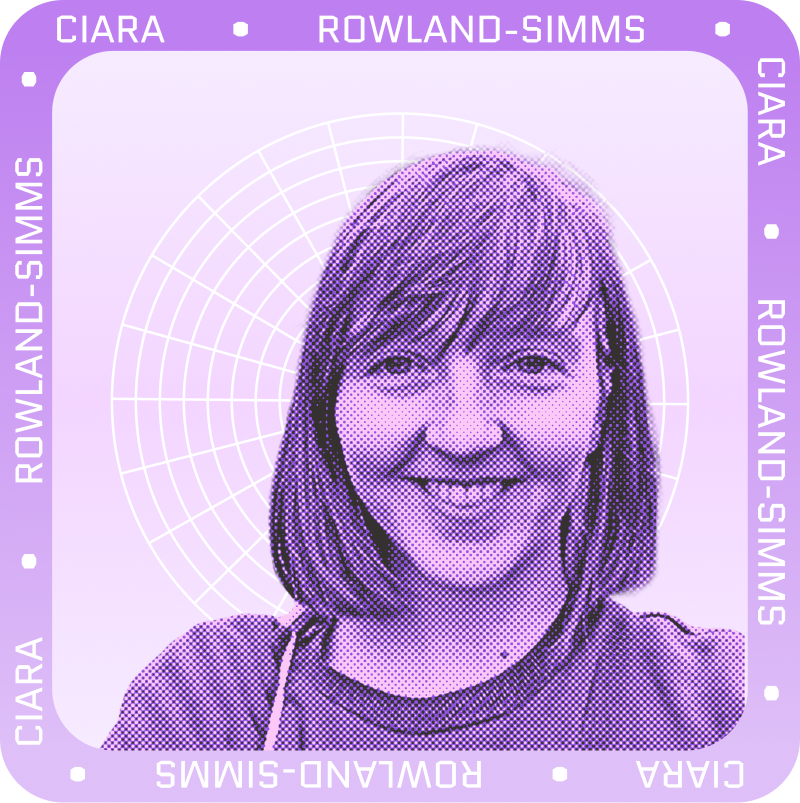
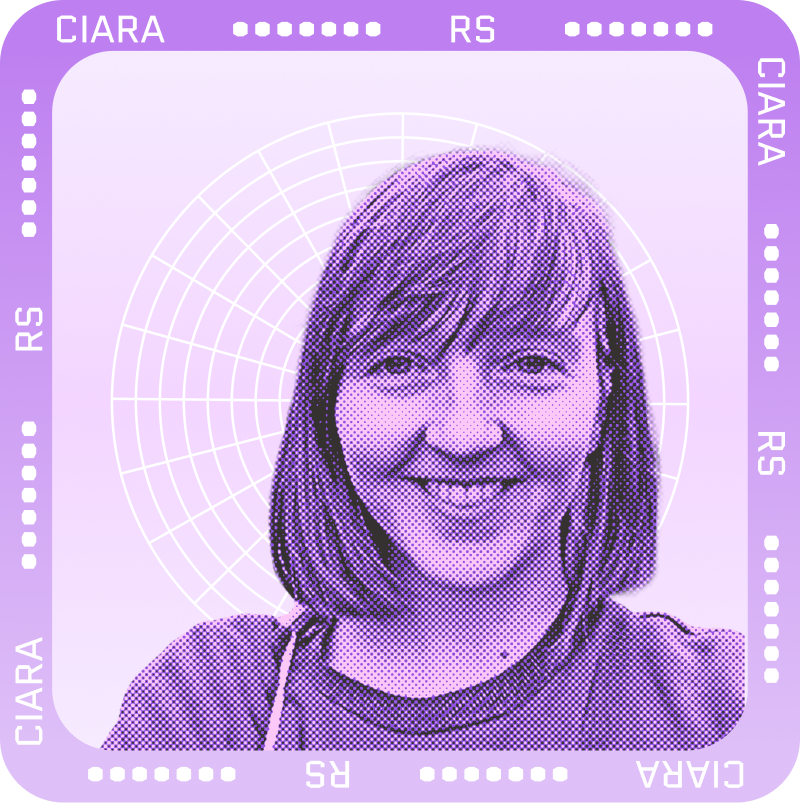
renamed ciara

diff --git a/templates/partials/structured-data.html b/templates/partials/structured-data.html
@@ -141,8 +141,8 @@
           },
           {
             "@type": "Person",
-            "@id": "https://eurorust.eu/#moderator-ciara-rowland-simms",
-            "name": "Ciara Rowland-Simms"
+            "@id": "https://eurorust.eu/#moderator-ciara-rs",
+            "name": "Ciara RS"
           },
           {
             "@type": "Person",

diff --git a/content/_index.md b/content/_index.md
@@ -91,7 +91,7 @@
 
 
 [[extra.moderators]]
-  name="Ciara Rowland-Simms"
+  name="Ciara RS"
   image="/images/moderators/ciara.png"
   twitter="https://x.com/Ciara0x1F973"
 
